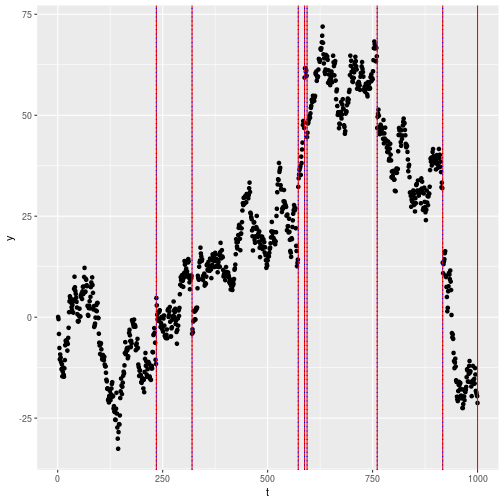
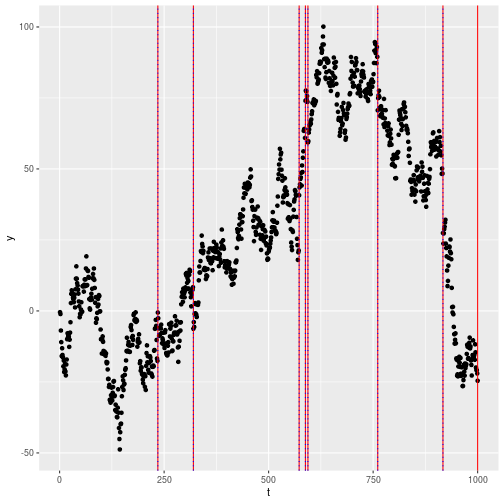
R wrapper completed, improved returns, added documentation, improved parameter estimation

diff --git a/src/fpop.cpp b/src/fpop.cpp
@@ -11,18 +11,43 @@ using namespace std;
 
 /////////////////////////////////////////////////////////////////////////////////////////////////////////////
 
-// [[Rcpp::export]]
+// [[Rcpp::export(.l2fpop)]]
 List l2fpop(std::vector<double> vectData, double beta, double lambda, double gamma, double phi=0, std::string type="std")
 {
-
+  
+  auto fpopOut = FPOPmain (vectData, beta, lambda, gamma, phi, type);
+  
+  //////// unpacking cost function /////////
+  std::list<int> tau;
+  std::list<double> l, u, a, b, c;
+  for (auto& q:get<1>(fpopOut)) {
+    tau.push_back(get<0>(q));
+    l.push_back(get<1>(q));
+    u.push_back(get<2>(q));
+    a.push_back(get<3>(q));
+    b.push_back(get<4>(q));
+    c.push_back(get<5>(q));
+  }
+  
+  DataFrame outCost = DataFrame::create(Named("tau") = tau,
+                                        Named("l") = l,
+                                        Named("u") = u,
+                                        Named("a") = a,
+                                        Named("b") = b,
+                                        Named("c") = c);
+  //////////////////////////////////////////
+  
+  
+  // returning list
   List res = List::create(
-    _["changepoints"] = FPOPmain (vectData, beta, lambda, gamma, phi, type)
+    _["changepoints"] = get<0>(fpopOut),
+    _["costFunction"] = outCost
   );
 
   return res;
 }
 
-// [[Rcpp::export]]
+// [[Rcpp::export(.dataAR_c)]]
 List dataAR_c(const double& phi, const double& epsilon0, const std::vector<double>& mu, const std::vector<double>& ynoise)
 {
   

diff --git a/src/fpopmain.cpp b/src/fpopmain.cpp
@@ -18,7 +18,7 @@ int whichMin(const std::vector<Type>& v) {
 
 
 // main l2FPOP function, takes a vector of data by reference and a penalty as a double
-vector<int> FPOPmain (vector<double> &y, double &beta, double &lambda, double &gamma, double& phi, std::string type) {
+std::tuple<vector<int>, vector<quad>> FPOPmain (vector<double> &y, double &beta, double &lambda, double &gamma, double& phi, std::string type) {
   
   int N = y.size();
   vector<quad> Q = {quad(1, -INFINITY, INFINITY,
@@ -79,5 +79,5 @@ vector<int> FPOPmain (vector<double> &y, double &beta, double &lambda, double &g
   //for (auto& p : taus) cout << p << endl;
   auto cp = backtracking(taus);
 
-  return cp;
+  return std::make_tuple(cp, Q);
 }

diff --git a/src/fpopmain.h b/src/fpopmain.h
@@ -3,6 +3,6 @@
 #include "quadratic.h"
 
 
-std::vector<int> FPOPmain (std::vector<double>&, double&, double&, double&, double&, std::string);
+std::tuple<std::vector<int>, std::vector<quad>> FPOPmain (std::vector<double>&, double&, double&, double&, double&, std::string);
 
 #endif

diff --git a/README.tex.md b/README.tex.md
@@ -4,6 +4,8 @@ title: "l2FPOP vignette"
 
 
 
+![](figure/logo.png)
+
 ## Installation and Requirements
 
 ### Installing the package
@@ -85,13 +87,15 @@ At the moment only two functions for data generation and parameter estimation ar
 
 ### The `l2-fpop` function
 
-The `l2-fpop` function takes as input the following arguments:
+The `l2-fpop` function can take as input the following arguments:
 
 - `y`: the sequence of observations we want to run the algorithm on;
 - `beta`: the penalty for the l0 norm in our minimization;
 - `lambda`: the penalty for the first l2 norm;
 - `gamma`: the penalty for the second l2 norm;
 - `type`: the type of costraint to apply to the recursion. At the moment only the standard change ("std") is implemented.
+
+In case no argument is provvided, it will procede via robust estimation of the necessary.
 
 ### A simple example
 
@@ -106,24 +110,32 @@ We will start generating a Random Walk. The function `dataRWAR` takes in:
 
 ```r
 set.seed(42)
-Y = dataRWAR(n = 1e3, poisParam = .01, meanGap = 15, phi = .7, sdEta = 2, sdNu = .3)
+Y = dataRWAR(n = 1e3, poisParam = .01, meanGap = 15, phi = .5, sdEta = 3, sdNu = 1)
 y = Y[["y"]]
 ```
 
-Running l2-FPOP is fairly straightforward. We need to pass all the required parameters in order for it to run.
+Running l2-FPOP is fairly straightforward:
 
+
+```r
+res = l2fpop(y)
+```
+
+
+We can plot the l2fpop segmentation (red lines), alongside with our real segmentation (dotted blue lines).
+
+![plot of chunk plot1](figure/plot1-1.png)
+
+
+## Running the algorithm without estimation
+Alternatively, we can also pass all the required parameters in order for it to run.
 In this case, since we both have an AR and RW component, we will use $\lambda = 1/(\sigma_\eta^2), \ \gamma = 1/(\sigma_\nu^2), \ \beta = 2 \log(n)$ and $\phi = .7$.
 
 
 ```r
-res = l2fpop(y,  beta = 2 * log(length(y)), lambda = 1/(2^2), gamma = 1/(.3)^2, phi = 0.7)
+res = l2fpop(y,  beta = 2 * log(length(y)), lambda = 1/(3^2), gamma = 1/(1)^2, phi = 0.5)
 ```
 
-We plot l2fpop segmentation (red lines), alongside with our real segmentation (dotted blue lines).
-
-![plot of chunk plot1](figure/plot1-1.png)
-
-...aaaand it worked (this time).
 
 ### Extreme case: Random Walk
 
